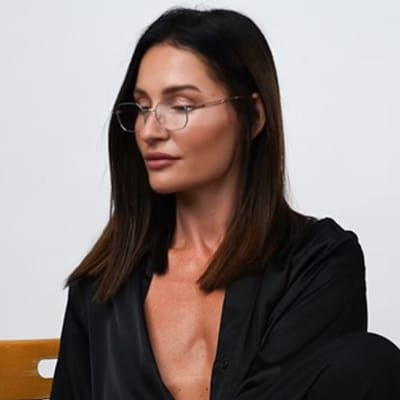
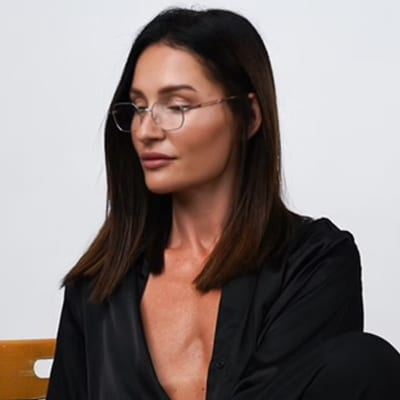
Fix hero photo: fixed 130px circular container, image fills via object-fit; re-cropped centered square

diff --git a/index.html b/index.html
@@ -55,8 +55,9 @@
     width:min(520px,90%);height:340px;pointer-events:none;z-index:0;
     background:radial-gradient(ellipse at center,rgba(166,127,121,.16),transparent 66%);filter:blur(6px)}
   .hero > *{position:relative;z-index:1}
-  .photo{width:clamp(120px,32vw,150px);aspect-ratio:1;border-radius:50%;object-fit:cover;object-position:center top;overflow:hidden;
+  .photo{width:130px;height:130px;border-radius:50%;overflow:hidden;display:block;
     margin:0 auto 24px;border:5px solid var(--paper);box-shadow:var(--shadow);background:var(--soft)}
+  .photo img{width:100%;height:100%;object-fit:cover;object-position:center 20%;border-radius:50%;display:block}
   .brand{font-family:var(--serif);font-weight:500;font-size:clamp(13px,3.4vw,15px);
     letter-spacing:.55em;padding-inline-start:.55em;color:var(--accent-deep);margin-bottom:20px}
   .hero h1{font-family:var(--serif);font-weight:700;font-size:clamp(1.95rem,6.4vw,3.1rem);
@@ -367,9 +368,9 @@
 
 <header class="hero wrap rev">
   <div class="halo" aria-hidden="true"></div>
-  <picture>
+  <picture class="photo">
     <source srcset="neta.webp" type="image/webp">
-    <img class="photo" src="neta.jpg" width="400" height="400" alt="נטע גוטמן — אדריכלית ומעצבת פנים" loading="eager" fetchpriority="high" decoding="async">
+    <img src="neta.jpg" alt="נטע גוטמן — אדריכלית ומעצבת פנים" width="400" height="400" loading="eager" fetchpriority="high" decoding="async">
   </picture>
   <div class="brand">INNHOME</div>
   <h1>אני כאן כדי ליצור יחד איתכם<br>את המרחב המדויק עבורכם</h1>